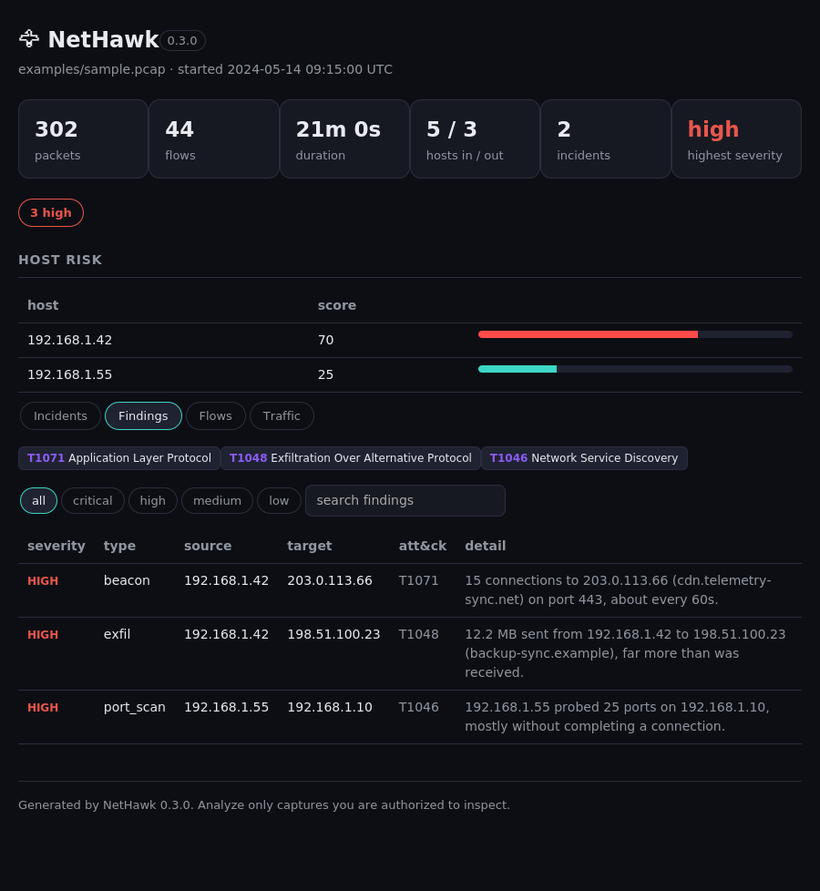
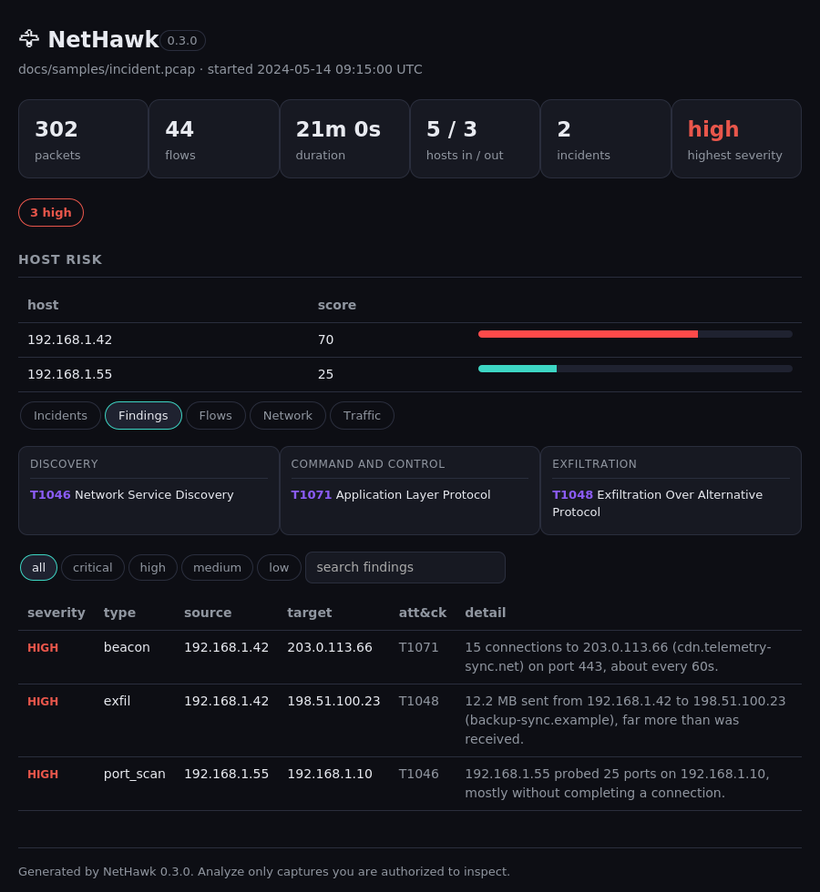
Add a visual attack timeline and an ATT&CK tactics matrix

diff --git a/docs/app/ui.js b/docs/app/ui.js
@@ -29,6 +29,14 @@
   var SEV = { critical: "var(--crit)", high: "var(--red)", medium: "var(--yellow)", low: "var(--teal)", info: "var(--dim)" };
   function scoreColor(v) { return v >= 70 ? "var(--crit)" : v >= 40 ? "var(--yellow)" : "var(--teal)"; }
   function confColor(v) { return v >= 70 ? "var(--crit)" : v >= 45 ? "var(--yellow)" : "var(--teal)"; }
+  var TACTIC_ORDER = ["Discovery", "Credential Access", "Command and Control", "Exfiltration"];
+  var TECH_TACTIC = {
+    "T1046": "Discovery", "T1040": "Credential Access", "T1552": "Credential Access",
+    "T1071": "Command and Control", "T1071.001": "Command and Control",
+    "T1071.004": "Command and Control", "T1568.002": "Command and Control",
+    "T1572": "Command and Control", "T1048": "Exfiltration"
+  };
+  var LANE_COLORS = ["var(--crit)", "var(--violet)", "var(--teal)", "var(--yellow)", "var(--green)"];
 
   // ---------- login ----------
   function showApp() { $("#login").classList.add("hidden"); $("#app").classList.remove("hidden"); }
@@ -142,10 +150,39 @@
     renderIncidents(); renderFindings(); renderFlows(); renderNetwork(); renderTraffic();
   }
 
+  function attackTimeline(incidents) {
+    var events = [];
+    incidents.forEach(function (i) { (i.timeline || []).forEach(function (e) { if (e.ts) events.push(e); }); });
+    if (events.length < 2) return "";
+    var first = Math.min.apply(null, events.map(function (e) { return e.ts; }));
+    var last = Math.max.apply(null, events.map(function (e) { return e.ts; }));
+    var firstByHost = {};
+    events.forEach(function (e) { if (firstByHost[e.host] == null || e.ts < firstByHost[e.host]) firstByHost[e.host] = e.ts; });
+    var hosts = Object.keys(firstByHost).sort(function (a, b) { return firstByHost[a] - firstByHost[b]; });
+    var colorByHost = {}; hosts.forEach(function (h, i) { colorByHost[h] = LANE_COLORS[i % LANE_COLORS.length]; });
+    var W = 700, padL = 96, padR = 20, top = 22, laneH = 44, H = top + hosts.length * laneH + 34, span = last - first;
+    function x(ts) { return span > 0 ? padL + (ts - first) / span * (W - padL - padR) : padL; }
+    var svg = "";
+    hosts.forEach(function (h, i) {
+      var y = top + i * laneH + laneH / 2;
+      svg += '<line x1="' + padL + '" y1="' + y + '" x2="' + (W - padR) + '" y2="' + y + '" stroke="var(--line)" stroke-width="1"/>';
+      svg += '<text x="4" y="' + (y + 4) + '" font-size="11" fill="' + colorByHost[h] + '">' + esc(shortHost(h)) + "</text>";
+      var evs = events.filter(function (e) { return e.host === h; }).sort(function (a, b) { return a.ts - b.ts; });
+      for (var j = 1; j < evs.length; j++) svg += '<line x1="' + x(evs[j - 1].ts).toFixed(1) + '" y1="' + y + '" x2="' + x(evs[j].ts).toFixed(1) + '" y2="' + y + '" stroke="' + colorByHost[h] + '" stroke-opacity="0.35" stroke-width="2"/>';
+      evs.forEach(function (e) { svg += '<circle cx="' + x(e.ts).toFixed(1) + '" cy="' + y + '" r="5" fill="' + colorByHost[h] + '"><title>' + clock(e.ts) + "  " + esc(e.text) + "</title></circle>"; });
+    });
+    var ay = H - 14;
+    [0, 0.5, 1].forEach(function (f) {
+      var ts = first + span * f, xx = x(ts), anchor = f === 0 ? "start" : f === 1 ? "end" : "middle";
+      svg += '<text x="' + xx.toFixed(1) + '" y="' + ay + '" font-size="10" fill="var(--dim)" text-anchor="' + anchor + '">' + clock(ts) + "</text>";
+    });
+    return '<h2>Attack timeline</h2><div class="chart"><svg viewBox="0 0 ' + W + " " + H + '" class="swim" preserveAspectRatio="xMidYMid meet">' + svg + "</svg></div>";
+  }
+
   function renderIncidents() {
     var el = $("#p-inc"); var inc = DATA.incidents || [];
     if (!inc.length) { el.innerHTML = '<p class="muted">No incidents reconstructed.</p>'; return; }
-    var h = "";
+    var h = attackTimeline(inc);
     inc.forEach(function (i) {
       h += '<div class="inc"><div class="top"><div><span class="host mono">' + esc(i.host) + '</span> <span>&middot; ' + esc(i.hypothesis) + "</span></div>"
         + '<span class="pill" style="background:' + confColor(i.confidence) + '">confidence ' + i.confidence + "%</span></div>";
@@ -162,15 +199,24 @@
     return list;
   }
 
+  function attckMatrix() {
+    var techs = techniquesObserved(); if (!techs.length) return "";
+    var byTactic = {};
+    techs.forEach(function (m) { var t = TECH_TACTIC[m.id] || "Other"; (byTactic[t] = byTactic[t] || []).push(m); });
+    var order = TACTIC_ORDER.filter(function (t) { return byTactic[t]; });
+    Object.keys(byTactic).forEach(function (t) { if (order.indexOf(t) < 0) order.push(t); });
+    var h = '<div class="matrix">';
+    order.forEach(function (t) {
+      h += '<div class="col"><div class="col-h">' + esc(t) + "</div>";
+      byTactic[t].forEach(function (m) { h += '<span class="t"><b>' + esc(m.id) + "</b> " + esc(m.name) + "</span>"; });
+      h += "</div>";
+    });
+    return h + "</div>";
+  }
+
   function renderFindings() {
     var el = $("#p-find");
-    var techs = techniquesObserved();
-    var th = "";
-    if (techs.length) {
-      th = '<div class="techs">';
-      techs.forEach(function (m) { th += '<span class="t"><b>' + esc(m.id) + "</b> " + esc(m.name) + "</span>"; });
-      th += "</div>";
-    }
+    var th = attckMatrix();
     var chips = ["all", "critical", "high", "medium", "low"];
     var c = '<div class="controls">';
     chips.forEach(function (s) { c += '<button class="chip' + (findSev === s ? " on" : "") + '" data-sev="' + s + '">' + s + "</button>"; });

diff --git a/docs/app/styles.css b/docs/app/styles.css
@@ -95,6 +95,12 @@ border-radius:8px;padding:8px 12px;font-size:14px;min-width:220px}
 .axis{display:flex;justify-content:space-between;color:var(--dim);font-size:12px;margin:2px 2px 16px}
 .legend{display:flex;gap:16px;flex-wrap:wrap;color:var(--dim);font-size:13px;margin-bottom:10px}
 .legend i{display:inline-block;width:10px;height:10px;border-radius:50%;vertical-align:middle;margin-right:4px}
+.swim{width:100%;height:auto;background:var(--panel);border:1px solid var(--line);border-radius:12px;margin-bottom:16px}
+.matrix{display:flex;gap:12px;flex-wrap:wrap;margin:2px 0 16px}
+.matrix .col{background:var(--panel);border:1px solid var(--line);border-radius:10px;padding:10px 12px;min-width:170px;flex:1}
+.matrix .col-h{font-size:12px;text-transform:uppercase;letter-spacing:.05em;color:var(--dim);margin-bottom:8px;border-bottom:1px solid var(--line);padding-bottom:6px}
+.matrix .col .t{display:block;font-size:13px;margin:5px 0}
+.matrix .col .t b{color:var(--violet)}
 .samples{margin-top:18px}
 .samples-label{color:var(--dim);font-size:13px;margin-bottom:8px;text-align:center}
 .panel{overflow-x:auto}

diff --git a/nethawk/serve.py b/nethawk/serve.py
@@ -73,6 +73,12 @@ padding:6px 14px;font-size:13px;cursor:pointer}
 .axis{display:flex;justify-content:space-between;color:var(--dim);font-size:12px;margin:2px 2px 16px}
 .legend{display:flex;gap:16px;flex-wrap:wrap;color:var(--dim);font-size:13px;margin-bottom:10px}
 .legend i{display:inline-block;width:10px;height:10px;border-radius:50%;vertical-align:middle;margin-right:4px}
+.swim{width:100%;height:auto;background:var(--panel);border:1px solid var(--line);border-radius:12px;margin-bottom:16px}
+.matrix{display:flex;gap:12px;flex-wrap:wrap;margin:2px 0 16px}
+.matrix .col{background:var(--panel);border:1px solid var(--line);border-radius:10px;padding:10px 12px;min-width:170px;flex:1}
+.matrix .col-h{font-size:12px;text-transform:uppercase;letter-spacing:.05em;color:var(--dim);margin-bottom:8px;border-bottom:1px solid var(--line);padding-bottom:6px}
+.matrix .col .t{display:block;font-size:13px;margin:5px 0}
+.matrix .col .t b{color:var(--violet)}
 .panel{display:none}.panel.active{display:block}
 .inc{background:var(--panel);border:1px solid var(--line);border-radius:12px;padding:17px 19px;margin-bottom:15px}
 .inc .top{display:flex;justify-content:space-between;align-items:center;gap:12px;flex-wrap:wrap}
@@ -109,6 +115,9 @@ function clock(ts){if(!ts)return '--:--:--';return new Date(ts*1000).toISOString
 var SEV={critical:'var(--crit)',high:'var(--red)',medium:'var(--yellow)',low:'var(--teal)',info:'var(--dim)'};
 function scoreColor(v){return v>=70?'var(--crit)':v>=40?'var(--yellow)':'var(--teal)';}
 function confColor(v){return v>=70?'var(--crit)':v>=45?'var(--yellow)':'var(--teal)';}
+var TACTIC_ORDER=['Discovery','Credential Access','Command and Control','Exfiltration'];
+var TECH_TACTIC={'T1046':'Discovery','T1040':'Credential Access','T1552':'Credential Access','T1071':'Command and Control','T1071.001':'Command and Control','T1071.004':'Command and Control','T1568.002':'Command and Control','T1572':'Command and Control','T1048':'Exfiltration'};
+var LANE_COLORS=['var(--crit)','var(--violet)','var(--teal)','var(--yellow)','var(--green)'];
 
 function showUpload(){ $('#dash').innerHTML=''; $('#intro').style.display='block'; }
 function analyzeBytes(buf){
@@ -186,10 +195,36 @@ function render(data){
 }
 function card(n,l){return '<div class="card"><div class="n">'+esc(n)+'</div><div class="l">'+esc(l)+'</div></div>';}
 
+function attackTimeline(incidents){
+  var events=[];
+  incidents.forEach(function(i){(i.timeline||[]).forEach(function(e){if(e.ts)events.push(e);});});
+  if(events.length<2)return '';
+  var first=Math.min.apply(null,events.map(function(e){return e.ts;}));
+  var last=Math.max.apply(null,events.map(function(e){return e.ts;}));
+  var firstByHost={};
+  events.forEach(function(e){if(firstByHost[e.host]==null||e.ts<firstByHost[e.host])firstByHost[e.host]=e.ts;});
+  var hosts=Object.keys(firstByHost).sort(function(a,b){return firstByHost[a]-firstByHost[b];});
+  var colorByHost={};hosts.forEach(function(h,i){colorByHost[h]=LANE_COLORS[i%LANE_COLORS.length];});
+  var W=700,padL=96,padR=20,top=22,laneH=44,H=top+hosts.length*laneH+34,span=last-first;
+  function x(ts){return span>0?padL+(ts-first)/span*(W-padL-padR):padL;}
+  var svg='';
+  hosts.forEach(function(h,i){
+    var y=top+i*laneH+laneH/2;
+    svg+='<line x1="'+padL+'" y1="'+y+'" x2="'+(W-padR)+'" y2="'+y+'" stroke="var(--line)" stroke-width="1"/>';
+    svg+='<text x="4" y="'+(y+4)+'" font-size="11" fill="'+colorByHost[h]+'">'+esc(shortHost(h))+'</text>';
+    var evs=events.filter(function(e){return e.host===h;}).sort(function(a,b){return a.ts-b.ts;});
+    for(var j=1;j<evs.length;j++)svg+='<line x1="'+x(evs[j-1].ts).toFixed(1)+'" y1="'+y+'" x2="'+x(evs[j].ts).toFixed(1)+'" y2="'+y+'" stroke="'+colorByHost[h]+'" stroke-opacity="0.35" stroke-width="2"/>';
+    evs.forEach(function(e){svg+='<circle cx="'+x(e.ts).toFixed(1)+'" cy="'+y+'" r="5" fill="'+colorByHost[h]+'"><title>'+clock(e.ts)+'  '+esc(e.text)+'</title></circle>';});
+  });
+  var ay=H-14;
+  [0,0.5,1].forEach(function(f){var ts=first+span*f,xx=x(ts),anchor=f===0?'start':f===1?'end':'middle';
+    svg+='<text x="'+xx.toFixed(1)+'" y="'+ay+'" font-size="10" fill="var(--dim)" text-anchor="'+anchor+'">'+clock(ts)+'</text>';});
+  return '<h2>Attack timeline</h2><div class="chart"><svg viewBox="0 0 '+W+' '+H+'" class="swim" preserveAspectRatio="xMidYMid meet">'+svg+'</svg></div>';
+}
 function renderIncidents(){
   var el=$('#p-inc'); var inc=DATA.incidents||[];
   if(!inc.length){el.innerHTML='<p class="muted">No incidents reconstructed.</p>';return;}
-  var h='';
+  var h=attackTimeline(inc);
   inc.forEach(function(i){
     h+='<div class="inc"><div class="top"><div><span class="host mono">'+esc(i.host)+'</span> <span>&middot; '+esc(i.hypothesis)+'</span></div>'
       +'<span class="pill" style="background:'+confColor(i.confidence)+'">confidence '+i.confidence+'%</span></div>';
@@ -207,11 +242,20 @@ function techniquesObserved(){
   (DATA.findings||[]).forEach(function(f){(f.mitre||[]).forEach(function(m){if(!seen[m.id]){seen[m.id]=1;list.push(m);}});});
   return list;
 }
+function attckMatrix(){
+  var techs=techniquesObserved();if(!techs.length)return '';
+  var byTactic={};
+  techs.forEach(function(m){var t=TECH_TACTIC[m.id]||'Other';(byTactic[t]=byTactic[t]||[]).push(m);});
+  var order=TACTIC_ORDER.filter(function(t){return byTactic[t];});
+  Object.keys(byTactic).forEach(function(t){if(order.indexOf(t)<0)order.push(t);});
+  var h='<div class="matrix">';
+  order.forEach(function(t){h+='<div class="col"><div class="col-h">'+esc(t)+'</div>';
+    byTactic[t].forEach(function(m){h+='<span class="t"><b>'+esc(m.id)+'</b> '+esc(m.name)+'</span>';});h+='</div>';});
+  return h+'</div>';
+}
 function renderFindings(){
   var el=$('#p-find');
-  var techs=techniquesObserved();
-  var th='';
-  if(techs.length){th='<div class="techs">';techs.forEach(function(m){th+='<span class="t"><b>'+esc(m.id)+'</b> '+esc(m.name)+'</span>';});th+='</div>';}
+  var th=attckMatrix();
   var chips=['all','critical','high','medium','low'];
   var c='<div class="controls">';
   chips.forEach(function(s){c+='<button class="chip'+(findSev===s?' on':'')+'" data-sev="'+s+'">'+s+'</button>';});

diff --git a/README.md b/README.md
@@ -29,14 +29,14 @@ There is a hosted demo that runs the whole tool in your browser at **https://sit
 
 ## The web GUI
 
-Run `nethawk serve` and open the printed address. Drop a capture into the page and it is analyzed locally: summary cards, host risk, reconstructed incidents with timelines, a searchable findings list with the MITRE ATT&CK techniques each finding maps to, a host graph, a flows explorer, and traffic statistics with an activity over time chart. You can export the result as JSON, as a list of indicators, or as a standalone HTML report. The whole interface is one document with no framework and no external resource, served by the standard library. The hosted demo above is the same interface, with the engine compiled to run in the browser.
+Run `nethawk serve` and open the printed address. Drop a capture into the page and it is analyzed locally: summary cards, host risk, reconstructed incidents with a visual attack timeline, a findings list with the observed ATT&CK techniques grouped by tactic, a host graph, a flows explorer, and traffic statistics with an activity over time chart. You can export the result as JSON, as a list of indicators, or as a standalone HTML report. The whole interface is one document with no framework and no external resource, served by the standard library. The hosted demo above is the same interface, with the engine compiled to run in the browser.
 
 <div align="center">
-<img src="docs/gui.png" width="760" alt="The NetHawk dashboard showing reconstructed incidents" />
+<img src="docs/gui.png" width="760" alt="The dashboard with a visual attack timeline across the compromised and scanning hosts" />
 <br><br>
 <img src="docs/gui_network.png" width="760" alt="The host graph, with the compromised host and its exfiltration target standing out" />
 <br><br>
-<img src="docs/gui_findings.png" width="760" alt="The findings view with MITRE ATT&CK techniques" />
+<img src="docs/gui_findings.png" width="760" alt="The findings view with the observed ATT&CK techniques grouped by tactic" />
 <br><br>
 <img src="docs/gui_traffic.png" width="760" alt="Traffic statistics with an activity over time chart showing the exfiltration burst" />
 </div>

diff --git a/CHANGELOG.md b/CHANGELOG.md
@@ -18,9 +18,11 @@ Keep a Changelog, and the project uses semantic versioning.
   and a single host reaching an unusually large number of external destinations.
 * Export from the demo: download the full result as JSON, a list of indicators,
   or a standalone HTML report.
-* Visualizations in both GUIs: a host graph that draws the conversation between
-  hosts and makes risky hosts stand out, and an activity over time chart that
-  surfaces bursts such as a large transfer.
+* Visualizations in both GUIs: a visual attack timeline that lays the incident
+  events out per host across the capture, a host graph that draws the
+  conversation between hosts and makes risky hosts stand out, an activity over
+  time chart that surfaces bursts such as a large transfer, and an ATT&CK matrix
+  that groups the observed techniques by tactic.
 
 ## [0.2.0] - 2025
 
